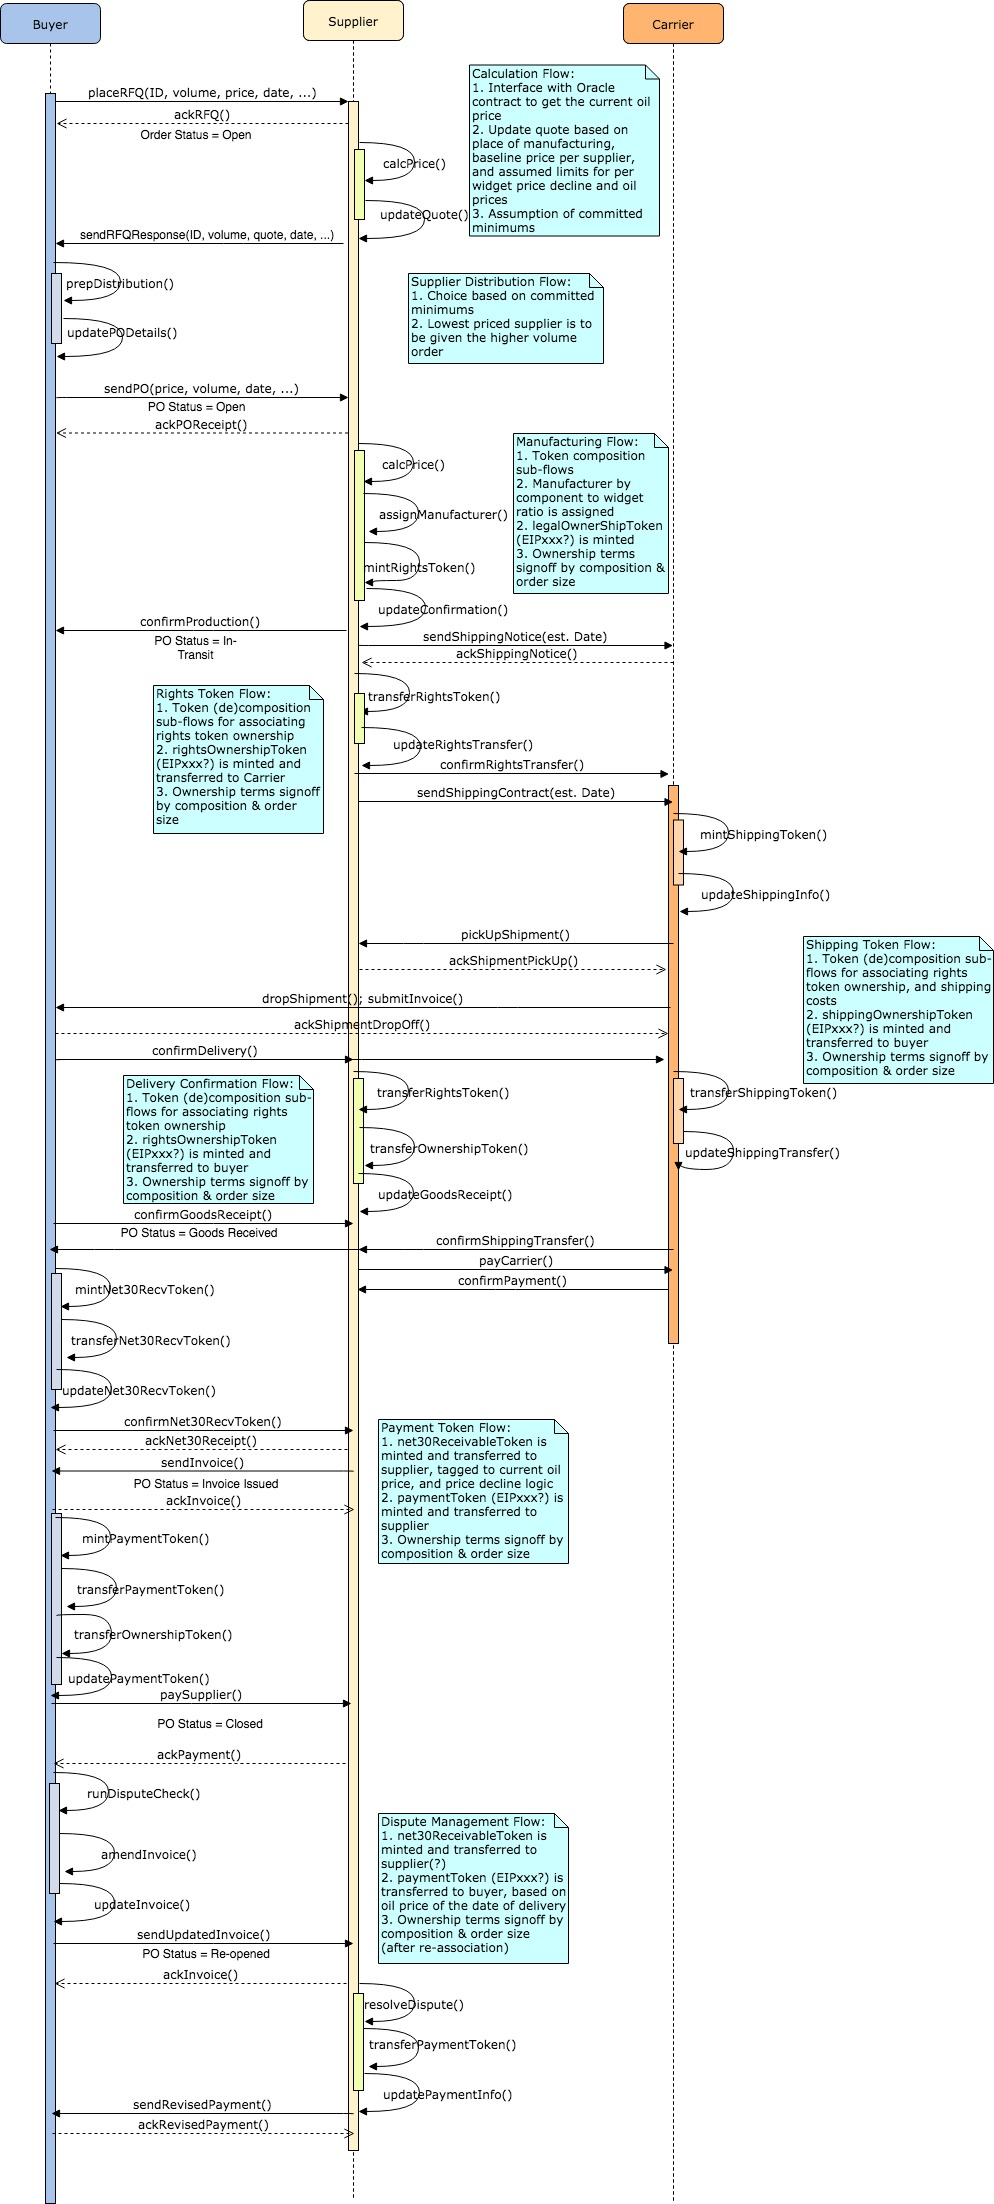
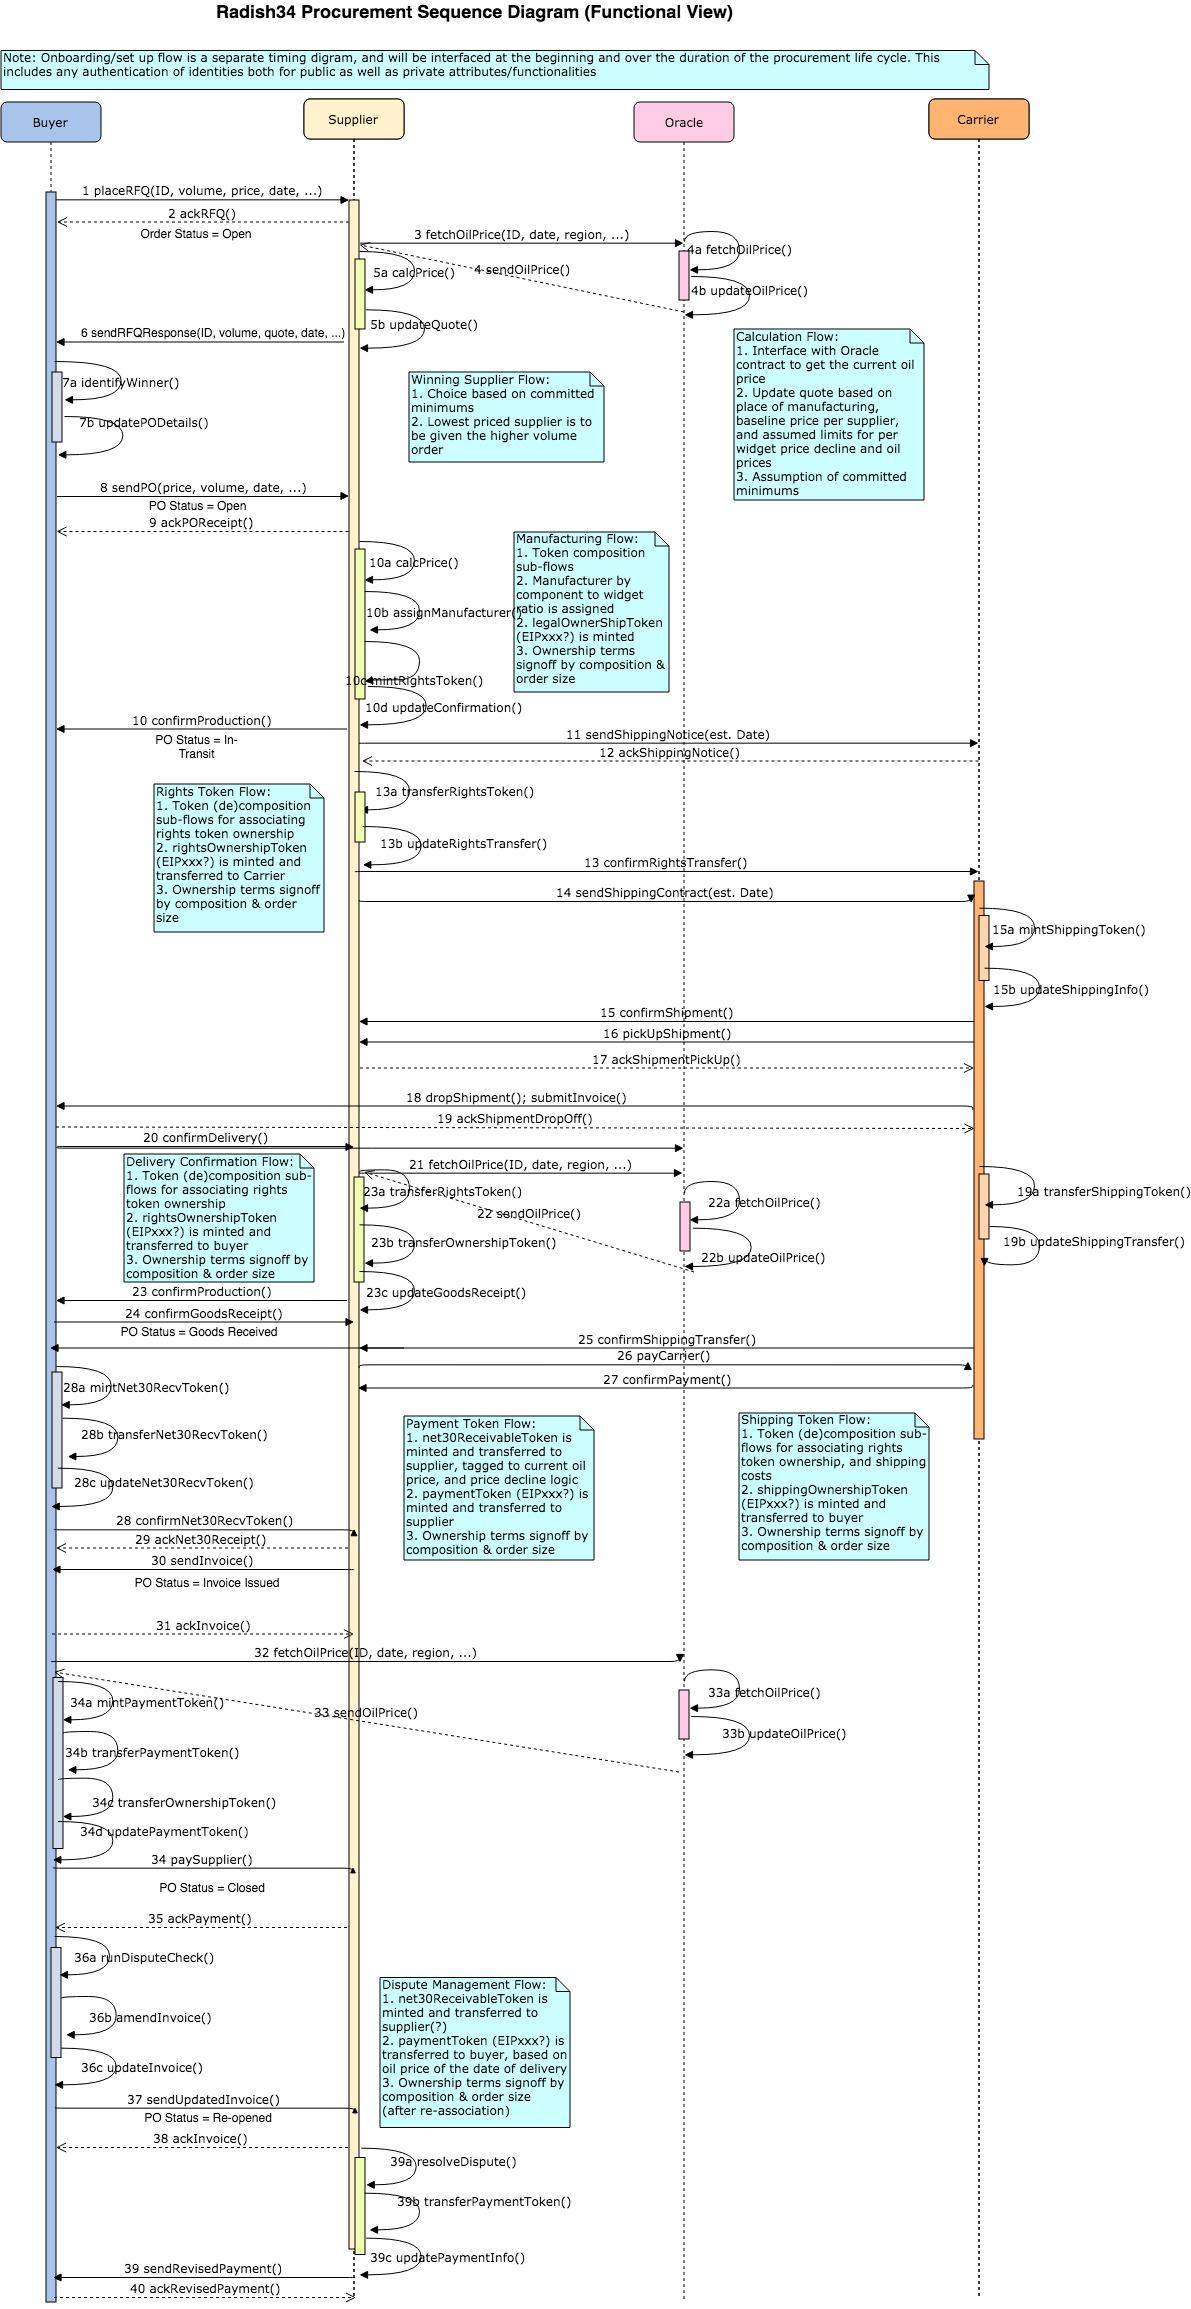
updates to sequence disgram to include interactions with oracle, numbering of the business functions and documentation

Changed region(s): [[0.0, 0.0, 1.0, 1.0]]

diff --git a/docs/sequence-diagrams/Functional Sequence Digram.md b/docs/sequence-diagrams/Functional Sequence Digram.md
@@ -1,1 +1,27 @@
 ![Alt text](./Radish34_Procurement_Flow_Timing_Sequence_Diagram.jpg?raw=true "Radish 34 Procurement Flow Sequence Diagram")
+
+## Description
+
+This figure depicts a functional flow of the interactions between the various actors in the procurement use case. Each sequence or atomic flow of a business transaction is abstracted based on actor level interactions or sub-sequences of events. Each of such sequences has been numbered based on the transition of one state to another. The overall diagram can be used as an input for data requirements, service integration level sequence/timing diagrams and UX design prints and additional flows. Following flows can be identified from this diagram:
+
+1. Winning Supplier Flow: Flow of events for choosing the winning supplier based on a calculation logic that determines the volume distribution in the PO, to be issued by Buyer to Supplier.
+> The winning suppliers both have the same contract rules: the price per widget declines by 5% every 100,000 widgets up to a maximum decline per calendar year of 25%.  However, for every $1 that the price of oil rises above $50, the price of those widgets goes up by 1%  The volume purchase meters are separate for each supplier.  Supplier A’s baseline price is $10 per widget.  Supplier B is $11 per widget. 
+2. Oil Price Calculation Flow: Flow of events for fetching the current oil price from an external oracle, and calculation of the quoted price, as part of the RFQ response from Supplier(s) to the Buyer.
+> The winning suppliers both have the same contract rules: the price per widget declines by 5% every 100,000 widgets up to a maximum decline per calendar year of 25%.  However, for every $1 that the price of oil rises above $50, the price of those widgets goes up by 1%  The volume purchase meters are separate for each supplier.  Supplier A’s baseline price is $10 per widget.  Supplier B is $11 per widget. 
+3. Manufacturing Flow: Flow of events for (de)composing of tokens representational of widgets, pallets and shipment orders, including the calculation/tracking of widget manufacturing across multiple regions overseen by the Supplier.
+> The widgets themselves are assembled in Mexico and shipped across the border to the US.  The widgets are made of 3 components.  Component 1 is made in Mexico and is worth 30% of widget value.  Component 2 is made in Canada and is worth 35% of widget value.  Component 3 is made in Japan and is worth 35% of widget value.  Each shipping pallet contains 100 widgets and we can get 3 pallets into each full delivery truckload.  The minimum order quantity is always 300 widgets (e.g. one full truck-load) and this must be enforced by the system.
+4. Rights Token Flow: Flow of events associated with transferring of tokens (custody) from Supplier to Carrier, and correspondingly tracking the ownership at (de)composition levels.
+5. Delivery Confirmation Flow: Flow of events for confirming delivery and the resulting transfer of ownership and shipping tokens between Supplier, Carrier and Buyer.
+6. Payment Token Flow: Flow of events for managing a Net30 receivable token and issuing payments using ERC20 (721) tokens between Supplier and Buyer.
+> They are allowed to invoice the customer on net-30 terms at the time of shipment.  Invoices are paid automatically on the net-30 schedule provided two rules are met: (1) the carrier reports delivery of the shipment to the customer and (2) the customer does not report any problems or issues with the shipment prior to the net-30 deadline.
+7. Shipping Token Flow: Flow of events for creating a shipping token tracked at the pallet level by the carrier.
+8. Dispute Management Flow: Flow of events to manage disputed items on delivery, and transfer payment tokens between Buyer and Supplier.
+
+
+In addition, following flows can be considered to be adjacent or pre-requisite functional flow diagrams for this diagram:
+
+1. Organization Management: Sequence diagram to detail an overall functional flow of events for onboarding organizations as participants of the network.
+2. Authentication Management: Sequence diagram to detail the interface of organization management with procurement view.
+
+## Open Questions
+
